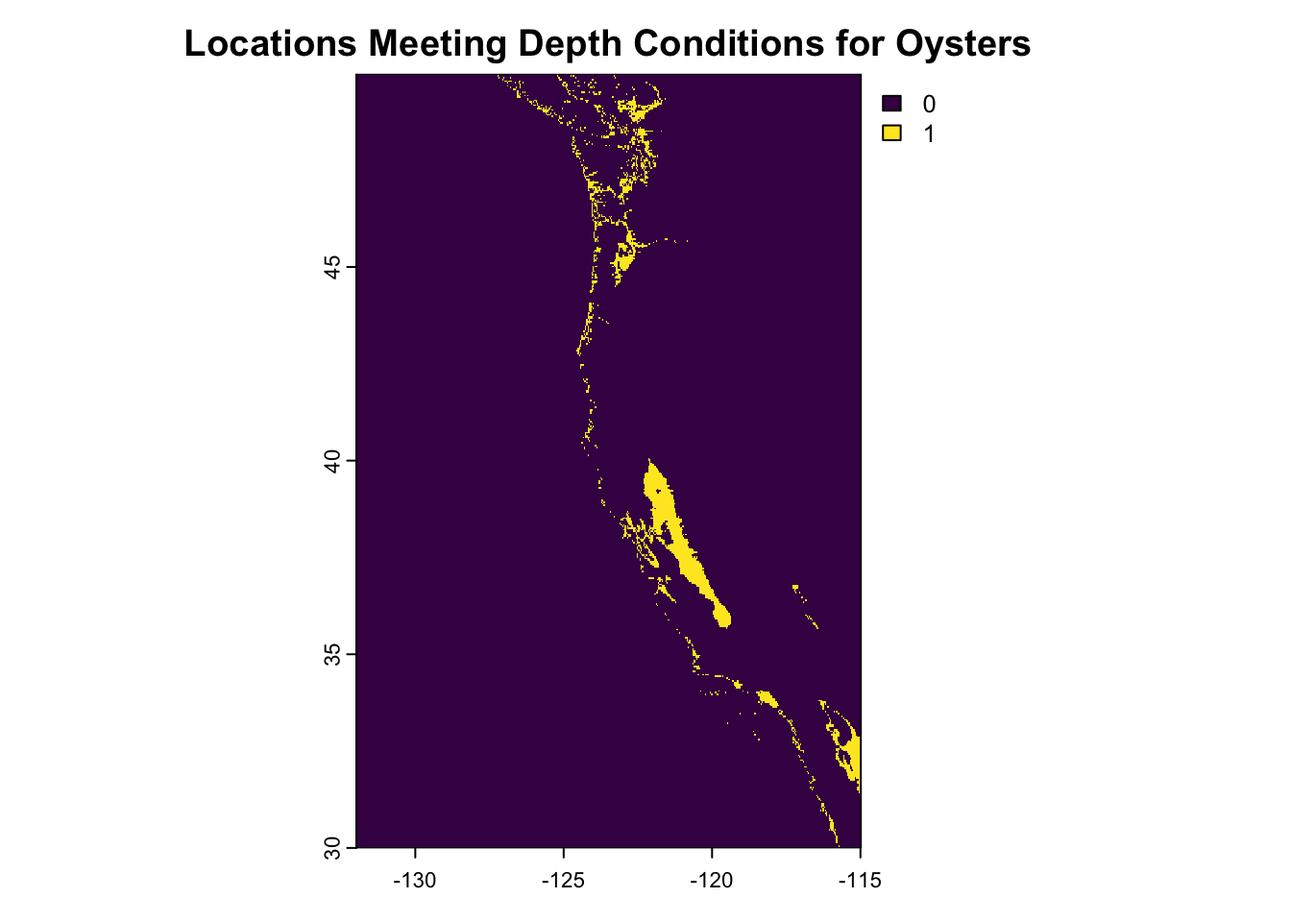
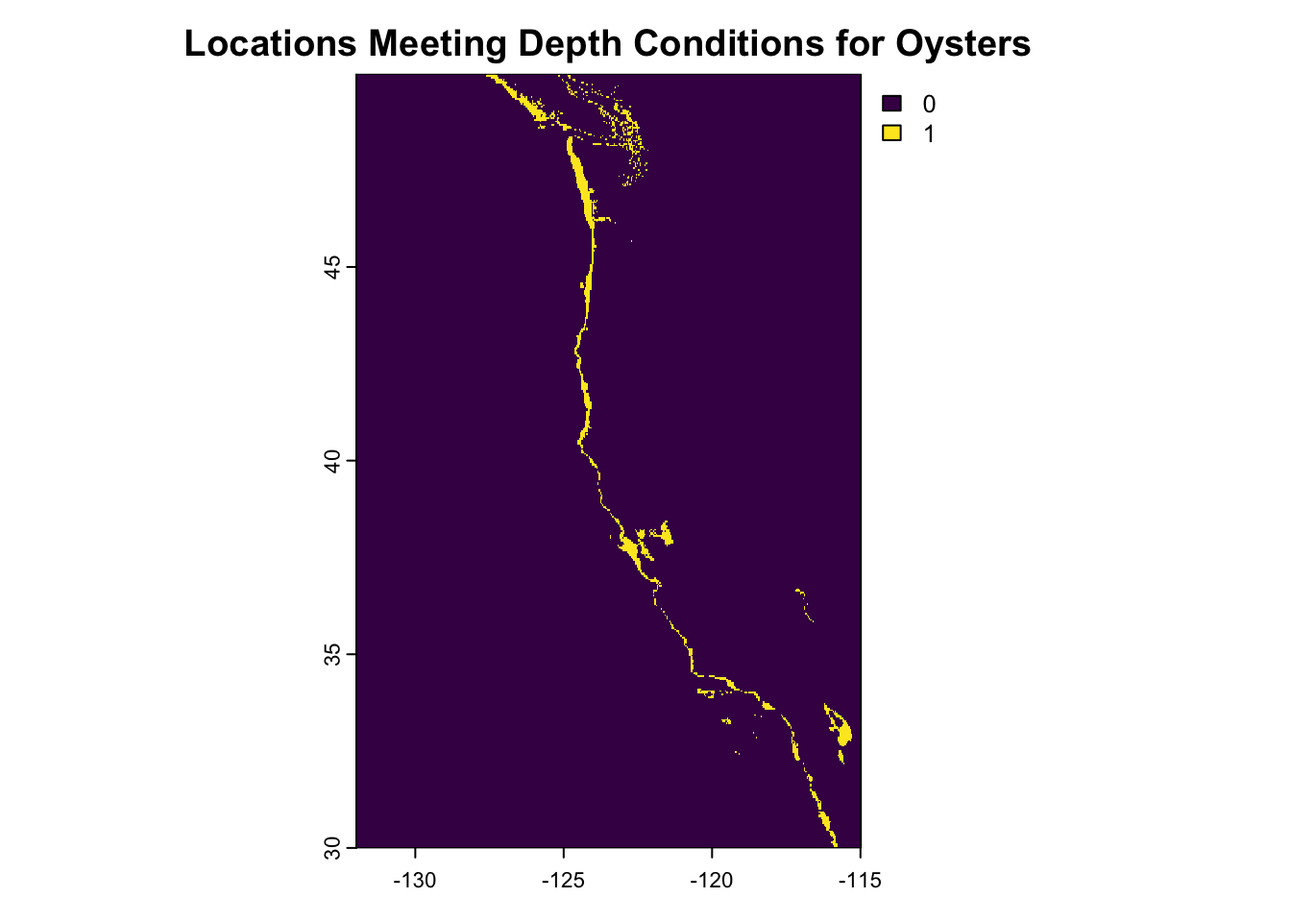
Submit for regrade

diff --git a/hw4.html b/hw4.html
@@ -244,9 +244,9 @@ pre > code.sourceCode > span > a:first-child::before { text-decoration: underlin
 <span id="cb17-4"><a href="#cb17-4" aria-hidden="true" tabindex="-1"></a>                    <span class="dv">30</span>, <span class="cn">Inf</span>, <span class="dv">0</span>),</span>
 <span id="cb17-5"><a href="#cb17-5" aria-hidden="true" tabindex="-1"></a>                  <span class="at">ncol =</span> <span class="dv">3</span>, <span class="at">byrow =</span> <span class="cn">TRUE</span>)</span>
 <span id="cb17-6"><a href="#cb17-6" aria-hidden="true" tabindex="-1"></a><span class="co"># Depth conditions for oysters</span></span>
-<span id="cb17-7"><a href="#cb17-7" aria-hidden="true" tabindex="-1"></a>depth_rcl <span class="ot">&lt;-</span> <span class="fu">matrix</span>(<span class="fu">c</span>(<span class="sc">-</span><span class="cn">Inf</span>, <span class="dv">0</span>, <span class="dv">0</span>,</span>
-<span id="cb17-8"><a href="#cb17-8" aria-hidden="true" tabindex="-1"></a>                      <span class="dv">0</span>, <span class="dv">70</span>, <span class="dv">1</span>,</span>
-<span id="cb17-9"><a href="#cb17-9" aria-hidden="true" tabindex="-1"></a>                      <span class="dv">70</span>, <span class="cn">Inf</span>, <span class="dv">0</span>),</span>
+<span id="cb17-7"><a href="#cb17-7" aria-hidden="true" tabindex="-1"></a>depth_rcl <span class="ot">&lt;-</span> <span class="fu">matrix</span>(<span class="fu">c</span>(<span class="sc">-</span><span class="cn">Inf</span>, <span class="sc">-</span><span class="dv">70</span>, <span class="dv">0</span>,</span>
+<span id="cb17-8"><a href="#cb17-8" aria-hidden="true" tabindex="-1"></a>                      <span class="sc">-</span><span class="dv">70</span>, <span class="dv">0</span>, <span class="dv">1</span>,</span>
+<span id="cb17-9"><a href="#cb17-9" aria-hidden="true" tabindex="-1"></a>                      <span class="dv">0</span>, <span class="cn">Inf</span>, <span class="dv">0</span>),</span>
 <span id="cb17-10"><a href="#cb17-10" aria-hidden="true" tabindex="-1"></a>                    <span class="at">ncol =</span> <span class="dv">3</span>, <span class="at">byrow =</span> <span class="cn">TRUE</span>)</span>
 <span id="cb17-11"><a href="#cb17-11" aria-hidden="true" tabindex="-1"></a>                    </span>
 <span id="cb17-12"><a href="#cb17-12" aria-hidden="true" tabindex="-1"></a><span class="co"># reclassify </span></span>
@@ -396,9 +396,9 @@ pre > code.sourceCode > span > a:first-child::before { text-decoration: underlin
 <span id="cb26-2"><a href="#cb26-2" aria-hidden="true" tabindex="-1"></a><span class="co"># Create Function </span></span>
 <span id="cb26-3"><a href="#cb26-3" aria-hidden="true" tabindex="-1"></a>suitable_locations_map <span class="ot">&lt;-</span> <span class="cf">function</span>(min_temp, max_temp, min_depth, max_depth, species){</span>
 <span id="cb26-4"><a href="#cb26-4" aria-hidden="true" tabindex="-1"></a>  <span class="co"># Reclassify the depth based on the passed in arguments for depth</span></span>
-<span id="cb26-5"><a href="#cb26-5" aria-hidden="true" tabindex="-1"></a>  species_rcl_depth <span class="ot">&lt;-</span> <span class="fu">matrix</span>(<span class="fu">c</span>(<span class="sc">-</span><span class="cn">Inf</span>, min_depth, <span class="cn">NA</span>,</span>
-<span id="cb26-6"><a href="#cb26-6" aria-hidden="true" tabindex="-1"></a>                           min_depth, max_depth, <span class="dv">1</span>,</span>
-<span id="cb26-7"><a href="#cb26-7" aria-hidden="true" tabindex="-1"></a>                           max_depth, <span class="cn">Inf</span>, <span class="cn">NA</span>),</span>
+<span id="cb26-5"><a href="#cb26-5" aria-hidden="true" tabindex="-1"></a>  species_rcl_depth <span class="ot">&lt;-</span> <span class="fu">matrix</span>(<span class="fu">c</span>(<span class="sc">-</span><span class="cn">Inf</span>, <span class="sc">-</span>max_depth, <span class="cn">NA</span>,</span>
+<span id="cb26-6"><a href="#cb26-6" aria-hidden="true" tabindex="-1"></a>                           <span class="sc">-</span>max_depth, <span class="sc">-</span>min_depth, <span class="dv">1</span>,</span>
+<span id="cb26-7"><a href="#cb26-7" aria-hidden="true" tabindex="-1"></a>                           <span class="sc">-</span>min_depth, <span class="cn">Inf</span>, <span class="cn">NA</span>),</span>
 <span id="cb26-8"><a href="#cb26-8" aria-hidden="true" tabindex="-1"></a>                         <span class="at">ncol =</span> <span class="dv">3</span>, <span class="at">byrow =</span> <span class="cn">TRUE</span>) </span>
 <span id="cb26-9"><a href="#cb26-9" aria-hidden="true" tabindex="-1"></a>  </span>
 <span id="cb26-10"><a href="#cb26-10" aria-hidden="true" tabindex="-1"></a>   </span>
@@ -407,86 +407,101 @@ pre > code.sourceCode > span > a:first-child::before { text-decoration: underlin
 <span id="cb26-13"><a href="#cb26-13" aria-hidden="true" tabindex="-1"></a>                           min_temp, max_temp, <span class="dv">1</span>,</span>
 <span id="cb26-14"><a href="#cb26-14" aria-hidden="true" tabindex="-1"></a>                           max_temp, <span class="cn">Inf</span>, <span class="cn">NA</span>),</span>
 <span id="cb26-15"><a href="#cb26-15" aria-hidden="true" tabindex="-1"></a>                         <span class="at">ncol =</span> <span class="dv">3</span>, <span class="at">byrow =</span> <span class="cn">TRUE</span>) </span>
-<span id="cb26-16"><a href="#cb26-16" aria-hidden="true" tabindex="-1"></a>  mean_sst_celsius[mean_sst_celsius[] <span class="sc">&lt;</span> min_temp <span class="sc">|</span> mean_sst_celsius[] <span class="sc">&gt;</span> max_temp] <span class="ot">&lt;-</span> <span class="cn">NA</span></span>
-<span id="cb26-17"><a href="#cb26-17" aria-hidden="true" tabindex="-1"></a>  bathymetry_resampled[bathymetry_resampled[] <span class="sc">&lt;</span> min_depth <span class="sc">|</span> bathymetry_resampled[] <span class="sc">&gt;</span> max_depth] <span class="ot">&lt;-</span> <span class="cn">NA</span></span>
+<span id="cb26-16"><a href="#cb26-16" aria-hidden="true" tabindex="-1"></a>  <span class="co"># mean_sst_celsius[mean_sst_celsius[] &lt; min_temp | mean_sst_celsius[] &gt; max_temp] &lt;- NA</span></span>
+<span id="cb26-17"><a href="#cb26-17" aria-hidden="true" tabindex="-1"></a>  <span class="co"># bathymetry_resampled[bathymetry_resampled[] &gt; min_depth | bathymetry_resampled[] &lt; max_depth] &lt;- NA</span></span>
 <span id="cb26-18"><a href="#cb26-18" aria-hidden="true" tabindex="-1"></a></span>
 <span id="cb26-19"><a href="#cb26-19" aria-hidden="true" tabindex="-1"></a>  <span class="co"># Classify </span></span>
 <span id="cb26-20"><a href="#cb26-20" aria-hidden="true" tabindex="-1"></a>  depth <span class="ot">&lt;-</span> <span class="fu">classify</span>(bathymetry_resampled, <span class="at">rcl =</span> species_rcl_depth,  <span class="at">include.lowest =</span> <span class="cn">TRUE</span>)</span>
-<span id="cb26-21"><a href="#cb26-21" aria-hidden="true" tabindex="-1"></a> sst <span class="ot">&lt;-</span>  <span class="fu">classify</span>(mean_sst_celsius, <span class="at">rcl =</span> species_rcl_sst,  <span class="at">include.lowest =</span> <span class="cn">TRUE</span>)</span>
-<span id="cb26-22"><a href="#cb26-22" aria-hidden="true" tabindex="-1"></a>  </span>
-<span id="cb26-23"><a href="#cb26-23" aria-hidden="true" tabindex="-1"></a>  <span class="co"># Raster multiplication to find areas that meet both conditions</span></span>
-<span id="cb26-24"><a href="#cb26-24" aria-hidden="true" tabindex="-1"></a>  total_rcl <span class="ot">&lt;-</span> <span class="fu">lapp</span>(<span class="fu">c</span>(sst, depth), <span class="at">fun =</span> <span class="st">'*'</span>)</span>
-<span id="cb26-25"><a href="#cb26-25" aria-hidden="true" tabindex="-1"></a></span>
-<span id="cb26-26"><a href="#cb26-26" aria-hidden="true" tabindex="-1"></a>  <span class="co"># Count the number of raster cells for area</span></span>
-<span id="cb26-27"><a href="#cb26-27" aria-hidden="true" tabindex="-1"></a>  suitable_mask <span class="ot">&lt;-</span> <span class="fu">cellSize</span>(<span class="at">x =</span> total_rcl, <span class="co"># area of cells</span></span>
-<span id="cb26-28"><a href="#cb26-28" aria-hidden="true" tabindex="-1"></a>                              <span class="at">unit =</span> <span class="st">'km'</span>,</span>
-<span id="cb26-29"><a href="#cb26-29" aria-hidden="true" tabindex="-1"></a>                              <span class="at">transform =</span> <span class="cn">TRUE</span>)</span>
-<span id="cb26-30"><a href="#cb26-30" aria-hidden="true" tabindex="-1"></a>  </span>
-<span id="cb26-31"><a href="#cb26-31" aria-hidden="true" tabindex="-1"></a>  <span class="co"># rasterize the west coast sf object with the mask</span></span>
-<span id="cb26-32"><a href="#cb26-32" aria-hidden="true" tabindex="-1"></a>  eez_rasterized <span class="ot">&lt;-</span> <span class="fu">rasterize</span>(<span class="at">x =</span> west_coast,</span>
-<span id="cb26-33"><a href="#cb26-33" aria-hidden="true" tabindex="-1"></a>                        <span class="at">y =</span> suitable_mask,</span>
-<span id="cb26-34"><a href="#cb26-34" aria-hidden="true" tabindex="-1"></a>                        <span class="at">field =</span> <span class="st">'rgn'</span>,</span>
-<span id="cb26-35"><a href="#cb26-35" aria-hidden="true" tabindex="-1"></a>                        <span class="at">na.rm =</span> <span class="cn">TRUE</span>)</span>
-<span id="cb26-36"><a href="#cb26-36" aria-hidden="true" tabindex="-1"></a>  </span>
-<span id="cb26-37"><a href="#cb26-37" aria-hidden="true" tabindex="-1"></a>  <span class="co"># Sum up the zones by area using the mask and raster</span></span>
-<span id="cb26-38"><a href="#cb26-38" aria-hidden="true" tabindex="-1"></a>  zones <span class="ot">&lt;-</span> <span class="fu">zonal</span>(<span class="at">x =</span> suitable_mask,</span>
-<span id="cb26-39"><a href="#cb26-39" aria-hidden="true" tabindex="-1"></a>                 <span class="at">z =</span> eez_rasterized,</span>
-<span id="cb26-40"><a href="#cb26-40" aria-hidden="true" tabindex="-1"></a>                 <span class="at">fun =</span> <span class="st">"sum"</span>,</span>
-<span id="cb26-41"><a href="#cb26-41" aria-hidden="true" tabindex="-1"></a>                 <span class="at">na.rm =</span> <span class="cn">TRUE</span>)</span>
-<span id="cb26-42"><a href="#cb26-42" aria-hidden="true" tabindex="-1"></a>  <span class="co"># Join both </span></span>
-<span id="cb26-43"><a href="#cb26-43" aria-hidden="true" tabindex="-1"></a>  join_area <span class="ot">&lt;-</span> <span class="fu">left_join</span>(west_coast, zones, <span class="at">by =</span> <span class="fu">join_by</span>(rgn))</span>
-<span id="cb26-44"><a href="#cb26-44" aria-hidden="true" tabindex="-1"></a>  </span>
-<span id="cb26-45"><a href="#cb26-45" aria-hidden="true" tabindex="-1"></a>  <span class="co"># Define northern and southern extents</span></span>
-<span id="cb26-46"><a href="#cb26-46" aria-hidden="true" tabindex="-1"></a>north_extent <span class="ot">&lt;-</span> raster<span class="sc">::</span><span class="fu">extent</span>(<span class="sc">-</span><span class="dv">180</span>, <span class="dv">180</span>, <span class="dv">40</span>, <span class="dv">90</span>) <span class="co"># Adjust latitude as needed</span></span>
-<span id="cb26-47"><a href="#cb26-47" aria-hidden="true" tabindex="-1"></a>south_extent <span class="ot">&lt;-</span> raster<span class="sc">::</span><span class="fu">extent</span>(<span class="sc">-</span><span class="dv">180</span>, <span class="dv">180</span>, <span class="sc">-</span><span class="dv">90</span>, <span class="dv">40</span>)</span>
-<span id="cb26-48"><a href="#cb26-48" aria-hidden="true" tabindex="-1"></a></span>
-<span id="cb26-49"><a href="#cb26-49" aria-hidden="true" tabindex="-1"></a><span class="co"># Crop rasters</span></span>
-<span id="cb26-50"><a href="#cb26-50" aria-hidden="true" tabindex="-1"></a>north_raster <span class="ot">&lt;-</span> <span class="fu">crop</span>(total_rcl, north_extent)</span>
-<span id="cb26-51"><a href="#cb26-51" aria-hidden="true" tabindex="-1"></a>south_raster <span class="ot">&lt;-</span> <span class="fu">crop</span>(total_rcl, south_extent)</span>
-<span id="cb26-52"><a href="#cb26-52" aria-hidden="true" tabindex="-1"></a></span>
-<span id="cb26-53"><a href="#cb26-53" aria-hidden="true" tabindex="-1"></a><span class="co"># Calculate suitable cell counts</span></span>
-<span id="cb26-54"><a href="#cb26-54" aria-hidden="true" tabindex="-1"></a>north_suitable <span class="ot">&lt;-</span> <span class="fu">sum</span>(<span class="fu">values</span>(north_raster) <span class="sc">==</span> <span class="dv">1</span>, <span class="at">na.rm =</span> <span class="cn">TRUE</span>)</span>
-<span id="cb26-55"><a href="#cb26-55" aria-hidden="true" tabindex="-1"></a>south_suitable <span class="ot">&lt;-</span> <span class="fu">sum</span>(<span class="fu">values</span>(south_raster) <span class="sc">==</span> <span class="dv">1</span>, <span class="at">na.rm =</span> <span class="cn">TRUE</span>)</span>
-<span id="cb26-56"><a href="#cb26-56" aria-hidden="true" tabindex="-1"></a></span>
-<span id="cb26-57"><a href="#cb26-57" aria-hidden="true" tabindex="-1"></a><span class="fu">print</span>(<span class="fu">paste</span>(<span class="st">"Northern Suitable Cells:"</span>, north_suitable))</span>
-<span id="cb26-58"><a href="#cb26-58" aria-hidden="true" tabindex="-1"></a><span class="fu">print</span>(<span class="fu">paste</span>(<span class="st">"Southern Suitable Cells:"</span>, south_suitable))</span>
-<span id="cb26-59"><a href="#cb26-59" aria-hidden="true" tabindex="-1"></a></span>
+<span id="cb26-21"><a href="#cb26-21" aria-hidden="true" tabindex="-1"></a>  <span class="fu">plot</span>(depth, <span class="at">main =</span> stringr<span class="sc">::</span><span class="fu">str_glue</span>(<span class="st">'Locations Meeting Depth Conditions for {species}'</span>))</span>
+<span id="cb26-22"><a href="#cb26-22" aria-hidden="true" tabindex="-1"></a> sst <span class="ot">&lt;-</span>  <span class="fu">classify</span>(mean_sst_celsius, <span class="at">rcl =</span> species_rcl_sst,  <span class="at">include.lowest =</span> <span class="cn">TRUE</span>)</span>
+<span id="cb26-23"><a href="#cb26-23" aria-hidden="true" tabindex="-1"></a>    <span class="fu">plot</span>(sst, <span class="at">main =</span> stringr<span class="sc">::</span><span class="fu">str_glue</span>(<span class="st">'Locations Meeting SST Conditions for {species}'</span>))</span>
+<span id="cb26-24"><a href="#cb26-24" aria-hidden="true" tabindex="-1"></a>  <span class="co"># Raster multiplication to find areas that meet both conditions</span></span>
+<span id="cb26-25"><a href="#cb26-25" aria-hidden="true" tabindex="-1"></a>  total_rcl <span class="ot">&lt;-</span> <span class="fu">lapp</span>(<span class="fu">c</span>(sst, depth), <span class="at">fun =</span> <span class="st">'*'</span>)</span>
+<span id="cb26-26"><a href="#cb26-26" aria-hidden="true" tabindex="-1"></a></span>
+<span id="cb26-27"><a href="#cb26-27" aria-hidden="true" tabindex="-1"></a>  <span class="co"># Count the number of raster cells for area</span></span>
+<span id="cb26-28"><a href="#cb26-28" aria-hidden="true" tabindex="-1"></a>  suitable_mask <span class="ot">&lt;-</span> <span class="fu">cellSize</span>(<span class="at">x =</span> total_rcl, <span class="co"># area of cells</span></span>
+<span id="cb26-29"><a href="#cb26-29" aria-hidden="true" tabindex="-1"></a>                              <span class="at">unit =</span> <span class="st">'km'</span>,</span>
+<span id="cb26-30"><a href="#cb26-30" aria-hidden="true" tabindex="-1"></a>                              <span class="at">transform =</span> <span class="cn">TRUE</span>)</span>
+<span id="cb26-31"><a href="#cb26-31" aria-hidden="true" tabindex="-1"></a>  </span>
+<span id="cb26-32"><a href="#cb26-32" aria-hidden="true" tabindex="-1"></a>  <span class="co"># rasterize the west coast sf object with the mask</span></span>
+<span id="cb26-33"><a href="#cb26-33" aria-hidden="true" tabindex="-1"></a>  eez_rasterized <span class="ot">&lt;-</span> <span class="fu">rasterize</span>(<span class="at">x =</span> west_coast,</span>
+<span id="cb26-34"><a href="#cb26-34" aria-hidden="true" tabindex="-1"></a>                        <span class="at">y =</span> suitable_mask,</span>
+<span id="cb26-35"><a href="#cb26-35" aria-hidden="true" tabindex="-1"></a>                        <span class="at">field =</span> <span class="st">'rgn'</span>,</span>
+<span id="cb26-36"><a href="#cb26-36" aria-hidden="true" tabindex="-1"></a>                        <span class="at">na.rm =</span> <span class="cn">TRUE</span>)</span>
+<span id="cb26-37"><a href="#cb26-37" aria-hidden="true" tabindex="-1"></a>  </span>
+<span id="cb26-38"><a href="#cb26-38" aria-hidden="true" tabindex="-1"></a>  <span class="co"># Sum up the zones by area using the mask and raster</span></span>
+<span id="cb26-39"><a href="#cb26-39" aria-hidden="true" tabindex="-1"></a>  zones <span class="ot">&lt;-</span> <span class="fu">zonal</span>(<span class="at">x =</span> suitable_mask,</span>
+<span id="cb26-40"><a href="#cb26-40" aria-hidden="true" tabindex="-1"></a>                 <span class="at">z =</span> eez_rasterized,</span>
+<span id="cb26-41"><a href="#cb26-41" aria-hidden="true" tabindex="-1"></a>                 <span class="at">fun =</span> <span class="st">"sum"</span>,</span>
+<span id="cb26-42"><a href="#cb26-42" aria-hidden="true" tabindex="-1"></a>                 <span class="at">na.rm =</span> <span class="cn">TRUE</span>)</span>
+<span id="cb26-43"><a href="#cb26-43" aria-hidden="true" tabindex="-1"></a>  <span class="co"># Join both </span></span>
+<span id="cb26-44"><a href="#cb26-44" aria-hidden="true" tabindex="-1"></a>  join_area <span class="ot">&lt;-</span> <span class="fu">left_join</span>(west_coast, zones, <span class="at">by =</span> <span class="fu">join_by</span>(rgn))</span>
+<span id="cb26-45"><a href="#cb26-45" aria-hidden="true" tabindex="-1"></a>  </span>
+<span id="cb26-46"><a href="#cb26-46" aria-hidden="true" tabindex="-1"></a>  <span class="co"># Define northern and southern extents</span></span>
+<span id="cb26-47"><a href="#cb26-47" aria-hidden="true" tabindex="-1"></a>north_extent <span class="ot">&lt;-</span> raster<span class="sc">::</span><span class="fu">extent</span>(<span class="sc">-</span><span class="dv">180</span>, <span class="dv">180</span>, <span class="dv">40</span>, <span class="dv">90</span>) <span class="co"># Adjust latitude as needed</span></span>
+<span id="cb26-48"><a href="#cb26-48" aria-hidden="true" tabindex="-1"></a>south_extent <span class="ot">&lt;-</span> raster<span class="sc">::</span><span class="fu">extent</span>(<span class="sc">-</span><span class="dv">180</span>, <span class="dv">180</span>, <span class="sc">-</span><span class="dv">90</span>, <span class="dv">40</span>)</span>
+<span id="cb26-49"><a href="#cb26-49" aria-hidden="true" tabindex="-1"></a></span>
+<span id="cb26-50"><a href="#cb26-50" aria-hidden="true" tabindex="-1"></a><span class="co"># Crop rasters</span></span>
+<span id="cb26-51"><a href="#cb26-51" aria-hidden="true" tabindex="-1"></a>north_raster <span class="ot">&lt;-</span> <span class="fu">crop</span>(total_rcl, north_extent)</span>
+<span id="cb26-52"><a href="#cb26-52" aria-hidden="true" tabindex="-1"></a>south_raster <span class="ot">&lt;-</span> <span class="fu">crop</span>(total_rcl, south_extent)</span>
+<span id="cb26-53"><a href="#cb26-53" aria-hidden="true" tabindex="-1"></a></span>
+<span id="cb26-54"><a href="#cb26-54" aria-hidden="true" tabindex="-1"></a><span class="co"># Calculate suitable cell counts</span></span>
+<span id="cb26-55"><a href="#cb26-55" aria-hidden="true" tabindex="-1"></a>north_suitable <span class="ot">&lt;-</span> <span class="fu">sum</span>(<span class="fu">values</span>(north_raster) <span class="sc">==</span> <span class="dv">1</span>, <span class="at">na.rm =</span> <span class="cn">TRUE</span>)</span>
+<span id="cb26-56"><a href="#cb26-56" aria-hidden="true" tabindex="-1"></a>south_suitable <span class="ot">&lt;-</span> <span class="fu">sum</span>(<span class="fu">values</span>(south_raster) <span class="sc">==</span> <span class="dv">1</span>, <span class="at">na.rm =</span> <span class="cn">TRUE</span>)</span>
+<span id="cb26-57"><a href="#cb26-57" aria-hidden="true" tabindex="-1"></a></span>
+<span id="cb26-58"><a href="#cb26-58" aria-hidden="true" tabindex="-1"></a><span class="fu">print</span>(<span class="fu">paste</span>(<span class="st">"Northern Suitable Cells:"</span>, north_suitable))</span>
+<span id="cb26-59"><a href="#cb26-59" aria-hidden="true" tabindex="-1"></a><span class="fu">print</span>(<span class="fu">paste</span>(<span class="st">"Southern Suitable Cells:"</span>, south_suitable))</span>
 <span id="cb26-60"><a href="#cb26-60" aria-hidden="true" tabindex="-1"></a></span>
-<span id="cb26-61"><a href="#cb26-61" aria-hidden="true" tabindex="-1"></a>  <span class="co"># Using species argument, initialize string object for title</span></span>
-<span id="cb26-62"><a href="#cb26-62" aria-hidden="true" tabindex="-1"></a>  species_string <span class="ot">&lt;-</span> stringr<span class="sc">::</span><span class="fu">str_glue</span>(<span class="st">'Total Suitable Area for {species}</span></span>
-<span id="cb26-63"><a href="#cb26-63" aria-hidden="true" tabindex="-1"></a><span class="st">                                      Aquaculture Off the West Coast'</span>)</span>
-<span id="cb26-64"><a href="#cb26-64" aria-hidden="true" tabindex="-1"></a>  <span class="do">## GGSpatial plot</span></span>
-<span id="cb26-65"><a href="#cb26-65" aria-hidden="true" tabindex="-1"></a><span class="fu">ggplot</span>() <span class="sc">+</span></span>
-<span id="cb26-66"><a href="#cb26-66" aria-hidden="true" tabindex="-1"></a>  <span class="fu">geom_sf</span>(<span class="at">data =</span> join_area, <span class="fu">aes</span>(<span class="at">fill =</span> area)) <span class="sc">+</span></span>
-<span id="cb26-67"><a href="#cb26-67" aria-hidden="true" tabindex="-1"></a> <span class="fu">scale_fill_distiller</span>(<span class="at">palette =</span> <span class="st">"Reds"</span>, <span class="at">direction =</span> <span class="dv">1</span>, <span class="at">limits =</span> <span class="fu">c</span>(<span class="dv">0</span>, <span class="fu">max</span>(join_area<span class="sc">$</span>area))) <span class="sc">+</span></span>
-<span id="cb26-68"><a href="#cb26-68" aria-hidden="true" tabindex="-1"></a>  <span class="fu">coord_sf</span>() <span class="sc">+</span></span>
-<span id="cb26-69"><a href="#cb26-69" aria-hidden="true" tabindex="-1"></a>    <span class="fu">theme_minimal</span>() <span class="sc">+</span></span>
-<span id="cb26-70"><a href="#cb26-70" aria-hidden="true" tabindex="-1"></a>   <span class="fu">labs</span>(<span class="at">title =</span> species_string,</span>
-<span id="cb26-71"><a href="#cb26-71" aria-hidden="true" tabindex="-1"></a>        <span class="at">x =</span> <span class="st">'Longitude'</span>,</span>
-<span id="cb26-72"><a href="#cb26-72" aria-hidden="true" tabindex="-1"></a>        <span class="at">y=</span> <span class="st">'Latitude'</span>,</span>
-<span id="cb26-73"><a href="#cb26-73" aria-hidden="true" tabindex="-1"></a>        <span class="at">fill =</span> <span class="fu">bquote</span>(<span class="st">"Suitable Area (km"</span><span class="sc">^</span>{<span class="dv">2</span>}<span class="sc">~</span><span class="st">")"</span> )) <span class="sc">+</span></span>
-<span id="cb26-74"><a href="#cb26-74" aria-hidden="true" tabindex="-1"></a>   <span class="fu">annotation_north_arrow</span>(<span class="at">location =</span> <span class="st">"tr"</span>,</span>
-<span id="cb26-75"><a href="#cb26-75" aria-hidden="true" tabindex="-1"></a>                         <span class="at">which_north =</span> <span class="st">"true"</span>,</span>
-<span id="cb26-76"><a href="#cb26-76" aria-hidden="true" tabindex="-1"></a>                         <span class="at">height =</span> <span class="fu">unit</span>(<span class="fl">0.8</span>, <span class="st">"cm"</span>),</span>
-<span id="cb26-77"><a href="#cb26-77" aria-hidden="true" tabindex="-1"></a>                         <span class="at">width =</span> <span class="fu">unit</span>(<span class="fl">0.6</span>, <span class="st">"cm"</span>)) <span class="sc">+</span></span>
-<span id="cb26-78"><a href="#cb26-78" aria-hidden="true" tabindex="-1"></a>   <span class="fu">annotation_scale</span>(<span class="at">location =</span> <span class="st">'bl'</span>,</span>
-<span id="cb26-79"><a href="#cb26-79" aria-hidden="true" tabindex="-1"></a>                    <span class="at">style =</span> <span class="st">'bar'</span>,</span>
-<span id="cb26-80"><a href="#cb26-80" aria-hidden="true" tabindex="-1"></a>                    <span class="at">width_hint =</span> .<span class="dv">35</span>) <span class="sc">+</span></span>
-<span id="cb26-81"><a href="#cb26-81" aria-hidden="true" tabindex="-1"></a>   <span class="fu">scale_x_continuous</span>(<span class="at">breaks =</span> <span class="fu">seq</span>(<span class="sc">-</span><span class="dv">180</span>, <span class="dv">180</span>, <span class="at">by =</span> <span class="dv">5</span>))</span>
-<span id="cb26-82"><a href="#cb26-82" aria-hidden="true" tabindex="-1"></a></span>
-<span id="cb26-83"><a href="#cb26-83" aria-hidden="true" tabindex="-1"></a>}</span>
-<span id="cb26-84"><a href="#cb26-84" aria-hidden="true" tabindex="-1"></a>  </span>
-<span id="cb26-85"><a href="#cb26-85" aria-hidden="true" tabindex="-1"></a><span class="co"># Pass in arguments for a given species </span></span>
-<span id="cb26-86"><a href="#cb26-86" aria-hidden="true" tabindex="-1"></a><span class="fu">suitable_locations_map</span>(<span class="at">min_temp =</span> <span class="dv">3</span>, <span class="at">max_temp =</span> <span class="dv">19</span>, <span class="at">min_depth =</span> <span class="dv">0</span>, <span class="at">max_depth =</span> <span class="dv">360</span>, <span class="at">species =</span> <span class="st">'Dungeness Crab'</span>)</span></code><button title="Copy to Clipboard" class="code-copy-button"><i class="bi"></i></button></pre></div>
+<span id="cb26-61"><a href="#cb26-61" aria-hidden="true" tabindex="-1"></a></span>
+<span id="cb26-62"><a href="#cb26-62" aria-hidden="true" tabindex="-1"></a>  <span class="co"># Using species argument, initialize string object for title</span></span>
+<span id="cb26-63"><a href="#cb26-63" aria-hidden="true" tabindex="-1"></a>  species_string <span class="ot">&lt;-</span> stringr<span class="sc">::</span><span class="fu">str_glue</span>(<span class="st">'Total Suitable Area for {species}</span></span>
+<span id="cb26-64"><a href="#cb26-64" aria-hidden="true" tabindex="-1"></a><span class="st">                                      Aquaculture Off the West Coast'</span>)</span>
+<span id="cb26-65"><a href="#cb26-65" aria-hidden="true" tabindex="-1"></a>  <span class="do">## GGSpatial plot</span></span>
+<span id="cb26-66"><a href="#cb26-66" aria-hidden="true" tabindex="-1"></a><span class="fu">ggplot</span>(<span class="at">data =</span> join_area, <span class="fu">aes</span>(<span class="at">fill =</span> area_km2)) <span class="sc">+</span></span>
+<span id="cb26-67"><a href="#cb26-67" aria-hidden="true" tabindex="-1"></a>  <span class="fu">geom_sf</span>() <span class="sc">+</span></span>
+<span id="cb26-68"><a href="#cb26-68" aria-hidden="true" tabindex="-1"></a> <span class="fu">scale_fill_distiller</span>(<span class="at">palette =</span> <span class="st">"Reds"</span>, <span class="at">direction =</span> <span class="dv">1</span>, <span class="at">limits =</span> <span class="fu">c</span>(<span class="dv">0</span>, <span class="fu">max</span>(join_area<span class="sc">$</span>area_km2))) <span class="sc">+</span></span>
+<span id="cb26-69"><a href="#cb26-69" aria-hidden="true" tabindex="-1"></a>  <span class="fu">coord_sf</span>() <span class="sc">+</span></span>
+<span id="cb26-70"><a href="#cb26-70" aria-hidden="true" tabindex="-1"></a>    <span class="fu">theme_minimal</span>() <span class="sc">+</span></span>
+<span id="cb26-71"><a href="#cb26-71" aria-hidden="true" tabindex="-1"></a>   <span class="fu">labs</span>(<span class="at">title =</span> species_string,</span>
+<span id="cb26-72"><a href="#cb26-72" aria-hidden="true" tabindex="-1"></a>        <span class="at">x =</span> <span class="st">'Longitude'</span>,</span>
+<span id="cb26-73"><a href="#cb26-73" aria-hidden="true" tabindex="-1"></a>        <span class="at">y=</span> <span class="st">'Latitude'</span>,</span>
+<span id="cb26-74"><a href="#cb26-74" aria-hidden="true" tabindex="-1"></a>        <span class="at">fill =</span> <span class="fu">bquote</span>(<span class="st">"Suitable Area (km"</span><span class="sc">^</span>{<span class="dv">2</span>}<span class="sc">~</span><span class="st">")"</span> )) <span class="sc">+</span></span>
+<span id="cb26-75"><a href="#cb26-75" aria-hidden="true" tabindex="-1"></a>   <span class="fu">annotation_north_arrow</span>(<span class="at">location =</span> <span class="st">"tr"</span>,</span>
+<span id="cb26-76"><a href="#cb26-76" aria-hidden="true" tabindex="-1"></a>                         <span class="at">which_north =</span> <span class="st">"true"</span>,</span>
+<span id="cb26-77"><a href="#cb26-77" aria-hidden="true" tabindex="-1"></a>                         <span class="at">height =</span> <span class="fu">unit</span>(<span class="fl">0.8</span>, <span class="st">"cm"</span>),</span>
+<span id="cb26-78"><a href="#cb26-78" aria-hidden="true" tabindex="-1"></a>                         <span class="at">width =</span> <span class="fu">unit</span>(<span class="fl">0.6</span>, <span class="st">"cm"</span>)) <span class="sc">+</span></span>
+<span id="cb26-79"><a href="#cb26-79" aria-hidden="true" tabindex="-1"></a>   <span class="fu">annotation_scale</span>(<span class="at">location =</span> <span class="st">'bl'</span>,</span>
+<span id="cb26-80"><a href="#cb26-80" aria-hidden="true" tabindex="-1"></a>                    <span class="at">style =</span> <span class="st">'bar'</span>,</span>
+<span id="cb26-81"><a href="#cb26-81" aria-hidden="true" tabindex="-1"></a>                    <span class="at">width_hint =</span> .<span class="dv">35</span>) <span class="sc">+</span></span>
+<span id="cb26-82"><a href="#cb26-82" aria-hidden="true" tabindex="-1"></a>   <span class="fu">scale_x_continuous</span>(<span class="at">breaks =</span> <span class="fu">seq</span>(<span class="sc">-</span><span class="dv">180</span>, <span class="dv">180</span>, <span class="at">by =</span> <span class="dv">5</span>))</span>
+<span id="cb26-83"><a href="#cb26-83" aria-hidden="true" tabindex="-1"></a></span>
+<span id="cb26-84"><a href="#cb26-84" aria-hidden="true" tabindex="-1"></a>}</span>
+<span id="cb26-85"><a href="#cb26-85" aria-hidden="true" tabindex="-1"></a>  </span>
+<span id="cb26-86"><a href="#cb26-86" aria-hidden="true" tabindex="-1"></a><span class="co"># Pass in arguments for a given species </span></span>
+<span id="cb26-87"><a href="#cb26-87" aria-hidden="true" tabindex="-1"></a><span class="fu">suitable_locations_map</span>(<span class="at">min_temp =</span> <span class="dv">3</span>, <span class="at">max_temp =</span> <span class="dv">19</span>, <span class="at">min_depth =</span> <span class="dv">0</span>, <span class="at">max_depth =</span> <span class="dv">360</span>, <span class="at">species =</span> <span class="st">'Dungeness Crab'</span>)</span></code><button title="Copy to Clipboard" class="code-copy-button"><i class="bi"></i></button></pre></div>
 </details>
-<div class="cell-output cell-output-stdout">
-<pre><code>[1] "Northern Suitable Cells: 93"
-[1] "Southern Suitable Cells: 34"</code></pre>
-</div>
 <div class="cell-output-display">
 <div>
 <figure class="figure">
 <p><img src="hw4_files/figure-html/unnamed-chunk-8-1.png" class="img-fluid figure-img" width="672"></p>
+</figure>
+</div>
+</div>
+<div class="cell-output-display">
+<div>
+<figure class="figure">
+<p><img src="hw4_files/figure-html/unnamed-chunk-8-2.png" class="img-fluid figure-img" width="672"></p>
+</figure>
+</div>
+</div>
+<div class="cell-output cell-output-stdout">
+<pre><code>[1] "Northern Suitable Cells: 4170"
+[1] "Southern Suitable Cells: 1980"</code></pre>
+</div>
+<div class="cell-output-display">
+<div>
+<figure class="figure">
+<p><img src="hw4_files/figure-html/unnamed-chunk-8-3.png" class="img-fluid figure-img" width="672"></p>
 </figure>
 </div>
 </div>
